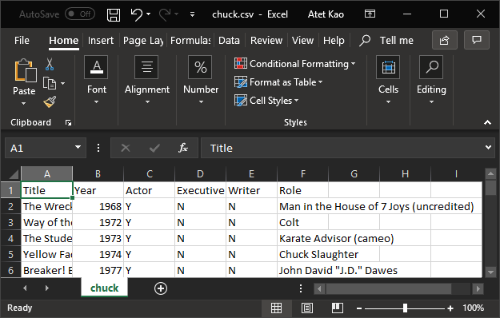
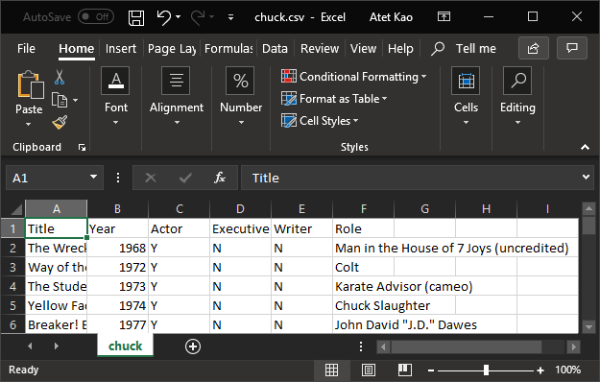
Draft of Introduction to Stream Editor.

diff --git a/sed/README.md b/sed/README.md
@@ -25,7 +25,7 @@
 * [5. More `sed`](#5-more-sed)
 * [6. Tabular Data](#6-tabular-data)
 * [7. Bigger Data](#7-bigger-data)
-* [8. Experiment](#8-experiment)
+* [8. The Art of Troubleshooting](#8-the-art-of-troubleshooting)
 * [9. Next Steps](#9-next-steps)
 
 ### Supplemental
@@ -458,15 +458,54 @@ Title,Year,Actor,Executive Producer,Writer,Role
 The Wrecking Crew,1968,Y,N,N,Man in the House of 7 Joys (uncredited)
 ```
 
+### 6.9. Nice. You're done!
+
+* With the last step redirecting output to `chuck.csv`, you can open this file in a spreadsheet program like Microsoft Excel:
+
 [![.img/step06b.png](.img/step06b.png)](#nolink)
 
-**Congratulations! You've just performed your very first "webscraping", a very useful skill to have in your toolbelt**
+**Congratulations! You've just performed your very first ["webscraping"](https://en.wikipedia.org/wiki/Web_scraping), a very useful skill to have in your toolbelt in this era of big data**
+
+### 6.10. Piping
+
+* The above could be done in one step by creating a [pipeline](https://www.gnu.org/software/bash/manual/html_node/Pipelines.html); piping the output from one command into another
+   * The `wget` flag `-qO` will suppress the output of status information an makes the downloaded data ready to be piped into another command (does not save to file)
+   * Output file `chuck2.csv` below will be exactly the same as `chuck.csv`
+
+```
+$ wget -qO- https://raw.githubusercontent.com/atet/learn/master/sed/data/chuck.html | \
+  grep -i -e "</*table\|</*tr\|</*th\|</*td" | \
+  sed "s/^[\ \t]*//g" | \
+  tr -d '\n\r' | \
+  sed "s/<\/tr[^>]*>/\n/Ig" | \
+  sed "s/<\/*\(table\|tr\)>//Ig" | \
+  sed "s/^<t[dh]>\|<\/t[dh]>$//Ig" | \
+  sed "s/<\/t[dh]><t[dh]>/,/Ig" > \
+  chuck2.csv
+$ head -n 5 chuck2.csv
+Title,Year,Actor,Executive Producer,Writer,Role
+The Wrecking Crew,1968,Y,N,N,Man in the House of 7 Joys (uncredited)
+Way of the Dragon,1972,Y,N,N,Colt
+The Student Teachers,1973,Y,N,N,Karate Advisor (cameo)
+Yellow Faced Tiger,1974,Y,N,N,Chuck Slaughter
+```
+
+### 6.11. Cleanup
+
+* You can erase all `chuck` files by using a Bash wildcard "`*`"
+* Make sure none of the files are open in other programs, otherwise the files are "locked" and cannot be deleted
+
+```
+$ rm chuck*
+```
 
 [Back to Top](#table-of-contents)
 
 --------------------------------------------------------------------------------------------------
 
 ## 7. Bigger Data
+
+### 7.1. Downloading example data
 
 * Let's take a look at a bigger data set `movies.json`<sup>[[3]](##acknowledgments)</sup>, a file listing American movies in JavaScript object notation (JSON) format
 
@@ -475,21 +514,274 @@ $ wget https://raw.githubusercontent.com/atet/learn/master/sed/data/movies.json
 
 <A BUNCH OF WGET STATUS TEXT>
 
+$ head -c 100 movies.json
+[{"title":"After Dark in Central Park","year":1900,"cast":[],"genres":[]},{"title":"Boarding School
 ```
 
-* Similar to HTML, there is a specific structure a JSON file must adhere to
+### 7.2. JSON format
+
+* Similar to HTML, there is a specific structure a JSON file must adhere to for it to represent nested data:
+
+```
+[
+   {
+      "title":"After Dark in Central Park",
+      "year":1900,
+      "cast":[],
+      "genres":[]
+   },
+.
+.
+.
+   {
+      "title":"Destroyer",
+      "year":2018,
+      "cast":["Nicole Kidman","Tatiana Maslany","Sebastian Stan","Toby Kebbell","Scoot McNairy"],
+      "genres":["Crime","Thriller"]
+   }
+]
+```
+
+### 7.3. Goal
+
+* Fortunately, `movies.json` does not have complex structure and can easily be represented as a comma seprated value (CSV) format:
+
+```
+title,year,cast,genres
+After Dark in Central Park, 1900,,
+.
+.
+.
+Destroyer,2018,Nicole Kidman;Tatiana Maslany;Sebastian Stan;Toby Kebbell;Scoot McNairy,Crime;Thriller
+```
+
+**Just like parsing the Chuck Norris HTML table previously, this will require a few steps to massage the data around**
+
+### 7.4. Line breaks between rows
+
+* We can combine some steps here: Add a line break when we see "`},`" and also remove those characters
+
+```
+$ sed "s/},/\n/Ig" movies.json > movies2.json
+$ head -n 2 movies2.json
+[{"title":"After Dark in Central Park","year":1900,"cast":[],"genres":[]
+{"title":"Boarding School Girls' Pajama Parade","year":1900,"cast":[],"genres":[]
+```
+
+### 7.5. Remove extraneous JSON syntax
+
+* We will remove any extra "`[{`", "`}]`", "`{`", and "`"`" (quotation marks) that are not relevant in CSV format
+
+```
+$ sed "s/^\[{\|}\]$\|^{\|\"//Ig" movies2.json > movies3.json
+$ head -n 2 movies3.json
+title:After Dark in Central Park,year:1900,cast:[],genres:[]
+title:Boarding School Girls' Pajama Parade,year:1900,cast:[],genres:[]
+```
+
+### 7.6. Remove JSON headers
+
+* Unlike the HTML table we parsed earlier, we need to know a bit about the JSON structure
+* Take note of the header names in the file for a later step: "`title:`", "`year:`", "`cast:`", and "`genres:`"
+* We are going to delete the header names from each row along with the colon
+
+```
+$ sed "s/title\:\|year\:\|cast\:\|genres\://Ig" movies3.json > movies4.json
+$ head -n 2 movies4.json
+After Dark in Central Park,1900,[],[]
+Boarding School Girls' Pajama Parade,1900,[],[]
+```
+
+### 7.7. Check comma delimiters
+
+* Let's take a look at some later entries that have information in `cast` and/or `genre`
+
+```
+$ tail -n 1 movies4.json
+Destroyer,2018,[Nicole Kidman,Tatiana Maslany,Sebastian Stan,Toby Kebbell,Scoot McNairy],[Crime,Thriller]
+```
+
+* Looks like we'll have a problem with those "extra" commas that are separating multiple entries within `cast` or `genre`
+* Let's go ahead and find that pattern of info within the brackets and replace them with semicolons:
+
+```
+$ sed "s/\[.\+,.\+\]/;/Ig" movies4.json > movies5.json
+$ tail -n 1 movies5.json
+Destroyer,2018,;
+```
+
+* Oops, that just replaced the first content `sed` saw between brackets with a semicolon, basically seeing the entire `[Nicole...],[...Thriller]` as the pattern
+
+**Well, let's try to be clever and see if we can introduce the semicolons correctly**
+
+#### 7.7.1. Introduce line breaks
+
+* Introduce line breaks for every `[...]` entry
+
+```
+$ sed "s/\[/\n\[/Ig" movies4.json > movies5.json
+$ tail -n 3 movies5.json
+Destroyer,2018,
+[Nicole Kidman,Tatiana Maslany,Sebastian Stan,Toby Kebbell,Scoot McNairy],
+[Crime,Thriller]
+```
+
+#### 7.7.2. Substitute commas with semicolons in `cast` and `genre`
+
+* For every line that contains `]`, substitute all commas with semicolons
+
+```
+$ sed "/\[/ s/,/;/Ig" movies5.json > movies6.json
+$ tail -n 3 movies6.json
+Destroyer,2018,
+[Nicole Kidman;Tatiana Maslany;Sebastian Stan;Toby Kebbell;Scoot McNairy];
+[Crime;Thriller]
+```
+
+#### 7.7.3. Replace semicolon with comma
+
+* There's one comma that was substituted to a semicolon, do you see it after "`...McNairy];`"?
+* We must change that back to a comma because it delineates the information from `cast` and `genre` columns
+
+```
+$ sed "/\[/ s/];/],/Ig" movies6.json > movies7.json
+$ tail -n 3 movies7.json
+Destroyer,2018,
+[Nicole Kidman;Tatiana Maslany;Sebastian Stan;Toby Kebbell;Scoot McNairy],
+[Crime;Thriller]
+```
+
+#### 7.7.4. Remove line breaks
+
+* For every line that contains a terminal comma, remove newline to make the row a single line again
+* Remember like the previous section with `chuck.html`, when we remove newlines ("`\n`"), we need to use the program `tr` (translate)
+
+```
+$ tr -d '\n\r' < movies7.json > movies8.json
+$ tail -c 110 movies8.json
+rama]Destroyer,2018,[Nicole Kidman;Tatiana Maslany;Sebastian Stan;Toby Kebbell;Scoot McNairy],[Crime;Thriller]
+```
+
+#### 7.7.5. Reintroduce line breaks
+
+* Now that everything is in one line again, we need to break this file back into individual rows
+* Recall that the last column of information `genres` does **not** have a comma after the ending bracket "`]`", we can use this unique pattern to line break on:
+   1. We will have to use the "`-E`" flag for extended regex expressions
+   2. The context of "`^`" used between the brackets mean "match everything except comma", therefore "`\][^,]`" means right bracket with any character after it that is **not** a comma
+   3. The parenthesis combined with `\1` is ["back referencing", a very powerful feature](https://www.gnu.org/software/sed/manual/html_node/Back_002dreferences-and-Subexpressions.html) in which the characters within are required to match, but instead of replacing them, they can be used as part of the substitution
+
+```
+$ sed -E "s/\]([^,])/\]\n\\1/Ig" movies8.json > movies9.json
+$ tail -n 3 movies9.json
+Holmes and Watson,2018,[Will Ferrell;John C. Reilly;Rebecca Hall;Ralph Fiennes;Rob Brydon;Kelly Macdonald;Lauren Lapkus;Hugh Laurie],[Action;Mystery;Comedy]
+On the Basis of Sex,2018,[Felicity Jones;Armie Hammer;Justin Theroux;Jack Reynor;Cailee Spaeny;Sam Waterston;Kathy Bates],[Biography;Drama]
+Destroyer,2018,[Nicole Kidman;Tatiana Maslany;Sebastian Stan;Toby Kebbell;Scoot McNairy],[Crime;Thriller]
+```
+
+#### 7.7.6. Remove extraneous JSON syntax
+
+* Now that we're done using the brackets as markers for specific patterns, we can get rid of them (remove the `-E` flag for this)
+
+```
+$ sed "s/\[\|\]//Ig" movies9.json > movies10.json
+$ tail -n 1 movies10.json
+Destroyer,2018,Nicole Kidman;Tatiana Maslany;Sebastian Stan;Toby Kebbell;Scoot McNairy,Crime;Thriller
+```
+
+#### 7.7.7. Add back header
+
+* Remember the column headers from earlier: "`title`", "`year`", "`cast`", and "`genres`
+* We will use `sed` to put the headers back as the first line of the file: 
+
+```
+$ sed "1 i title,year,cast,genres" movies10.json > movies.csv
+$ head -n 10 movies.csv
+title,year,cast,genres
+After Dark in Central Park,1900,,
+```
+
+* Nice, now you can open this in a spreadsheet program:
+
+[![.img/step07a.png](.img/step07a.png)](#nolink)
+
+* Oh no! Some rows have more than four columns!
+* Let's check the source data to see what's going on:
+
+[![.img/step07b.png](.img/step07b.png)](#nolink)
+
+* Looks like some movie titles had commas in them (just like `cast` and `genre`) that we didn't account for
+
+**Looks like we have a bit more work to do...**
 
 [Back to Top](#table-of-contents)
 
 --------------------------------------------------------------------------------------------------
 
-## 8. Experiment
+## 8. The Art of Troubleshooting
+
+**Before we get back to finishing the JSON conversion, a few words:**
+
+* In this tutorial, we want to go from raw HTML or JSON to a CSV file that can be easily viewed on spreadsheet software
+   * Data [munging (a.k.a. wrangling)](https://en.wikipedia.org/wiki/Data_wrangling) is the process of transforming raw data to something more useful for you
+* **This transformation process is never perfect**; you may have to perform a couple deep dives and a bunch of fine tuning before you get to your end product
+* Fortunately, the more experience you accumulate the easier and faster this process gets because you'll already know what common pitfalls to look out
+
+**Back to the show**
+
+* The issue we had with the JSON file is that `title` entries also had commas
+* There's a million ways we can tackle this, let's brainstorm a couple:
+   1. Go back to step [7.7. Check comma delimiters](#77-check-comma-delimiters) and add a step to look for commas in the `title` column?
+   2. Use a different delineation symbol than the comma?
+* Option #1 might work, but what about the commas already delineating the columns?
+* **Option #2 actually might work really well, let's try using tabs instead of commas**
+
+### 8.1. Tab delineation and piping
+
+* Let's change the column delineation to tabs ("`\t`") intead of commas and put all the different steps into a pipeline:
+
+```
+$ wget -qO- https://raw.githubusercontent.com/atet/learn/master/sed/data/movies.json | \
+  sed "s/},/\n/Ig" | \
+  sed "s/^\[{\|}\]$\|^{\|\"//Ig" | \
+  
+  ### Replace ",year:" , ",cast:" , and ",genre:" with a tab "\t"
+  sed "s/,year\:\|,cast\:\|,genres\:/\t/Ig" | \
+  
+  ### Remove "title:"
+  sed "s/title\://Ig" | \
+  
+  ### Now we can skip most of "7.7. Check comma delimiters"
+  sed "s/\[\|\]//Ig" | \
+  sed "1 i title\tyear\tcast\tgenres" > \
+  movies.tsv
+$ head -n 2 movies.tsv
+title   year    cast    genres
+After Dark in Central Park      1900
+```
+
+* Now let's check this tab separated value (TSV) file in a spreadsheet program:
+   * Microsoft Office: You have to open as "All Files" and use the Text Import Wizard:
+
+[![.img/step08a.png](.img/step08a.png)](#nolink)
+
+[![.img/step08b.png](.img/step08b.png)](#nolink)
+
+* Excellent! Looks like we successfully transformed the JSON file into a file we can view in a spreadsheet program
+
 
 [Back to Top](#table-of-contents)
 
 --------------------------------------------------------------------------------------------------
 
 ## 9. Next Steps
+
+* Data [munging (a.k.a. wrangling)](https://en.wikipedia.org/wiki/Data_wrangling) is an extensive topic that requires patience (as you've seen here) to work through troubleshooting
+* I would recommend going back to try [Atet's 15 Minute Introduction to Regular Expressions](https://github.com/atet/learn/blob/master/regex/README.md#atet--learn--regex) and this tutorial over again at least one more time
+* After getting a good handle on the flow of how commands and pipelines are assembled, check out other free, public data sets to flex your new skills:
+
+Data Set | Link
+--- | ---
+Curated Example Data Sets by Justin Dorfman | https://github.com/jdorfman/awesome-json-datasets
 
 [Back to Top](#table-of-contents)
 
@@ -501,6 +793,9 @@ Description | Link
 --- | ---
 `sed` Manual | https://www.gnu.org/software/sed/manual/sed.html
 Bash Reference Manual | https://www.gnu.org/software/bash/manual/bash.pdf
+`tr` Manual | https://www.gnu.org/software/coreutils/manual/html_node/tr-invocation.html#tr-invocation
+Pipelines in Bash | https://www.gnu.org/software/bash/manual/html_node/Pipelines.html
+Back Referencing in `sed` | https://www.gnu.org/software/sed/manual/html_node/Back_002dreferences-and-Subexpressions.html
 
 [Back to Top](#table-of-contents)
 
@@ -510,7 +805,7 @@ Bash Reference Manual | https://www.gnu.org/software/bash/manual/bash.pdf
 
 Issue | Solution
 --- | ---
-I need more delimiters | https://stackoverflow.com/questions/33914360/what-delimiters-can-you-use-in-sed
+I need more delimiters for `sed` | https://stackoverflow.com/questions/33914360/what-delimiters-can-you-use-in-sed
 
 [Back to Top](#table-of-contents)
 
